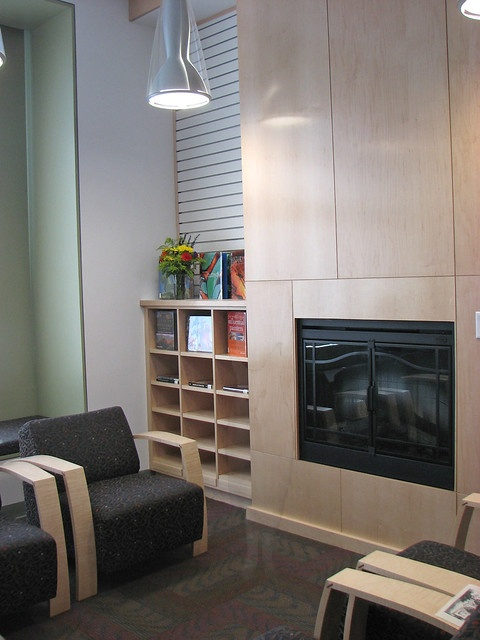
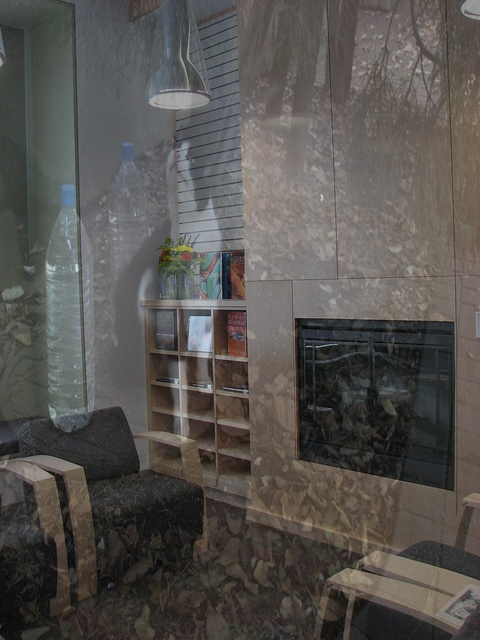
Create dataset for testing the attacks

diff --git a/attacks/obvious_attack.py b/attacks/obvious_attack.py
@@ -11,20 +11,22 @@ def obvious_attack(original: np.array, dif_image: np.array, mask: np.array = Non
     if mask is not None and mask.shape != original.shape:
         h, w, c = original.shape
         mask = cv2.resize(mask, (w, h))
+    attack = None
     if mask is not None:
         copy_dif = cv2.bitwise_and(copy_dif, copy_dif, mask=mask)
         copy_orig = cv2.bitwise_and(original, original, mask=cv2.bitwise_not(mask))
-    attack = cv2.bitwise_or(copy_orig, copy_dif)
-    if opacity < 1:
-        attack = cv2.addWeighted(attack, opacity, original, 1 - opacity, 0)
+        attack = cv2.bitwise_or(copy_orig, copy_dif)
+        if opacity < 1:
+            attack = cv2.addWeighted(attack, opacity, copy_orig, 1 - opacity, 0)
+    else:
+        attack = cv2.addWeighted(copy_dif, opacity, copy_orig, 1 - opacity, 0)
     return attack
 
 
 if __name__ == "__main__":
     original = cv2.imread("test_image/no_cat_image.jpg")
-    different = cv2.imread("test_image/cat_image.jpg")
-    assert different.shape == original.shape
+    different = cv2.imread("test_image/no_noise_image.jpg")
     _, mask = cv2.threshold(different, 20, 255, cv2.THRESH_BINARY)
     mask = cv2.cvtColor(mask, cv2.COLOR_BGR2GRAY)
-    cv2.imwrite("test_image/obvious_attack_image.jpg", obvious_attack(original, different, mask, 0.1))
+    cv2.imwrite("test_image/obvious_attack_image.jpg", obvious_attack(original, different, opacity=0.45))
 

diff --git a/attacks/attack_dataset.py b/attacks/attack_dataset.py
@@ -1,0 +1,17 @@
+from simple_noise_attack import simple_noise_attack
+from obvious_attack import obvious_attack
+import os
+import cv2
+from tqdm import tqdm
+
+test_path = "coco-2017/test/data"
+noise_path = "coco-2017/test-noise-attack/data"
+grad_path = "coco-2017/test-grad-attack/data"
+gradient = cv2.imread("gradient.jpg")
+for image in tqdm(os.listdir(test_path)):
+    abs_image = os.path.join(test_path, image)
+    abs_noise = os.path.join(noise_path, image)
+    abs_grad = os.path.join(grad_path, image)
+    original = cv2.imread(abs_image)
+    cv2.imwrite(abs_noise, simple_noise_attack(original, 20))
+    cv2.imwrite(abs_grad, obvious_attack(original, gradient, opacity=0.03))

diff --git a/attacks/attack_visualization.py b/attacks/attack_visualization.py
@@ -1,0 +1,13 @@
+from ultralytics import YOLO
+
+model = YOLO("yolo11n.pt")
+results = model(["test_image/no_cat_image.jpg", "test_image/obvious_attack_image.jpg"])
+
+# Process results list
+for result in results:
+    boxes = result.boxes
+    masks = result.masks
+    keypoints = result.keypoints
+    probs = result.probs
+    obb = result.obb
+    result.show()
